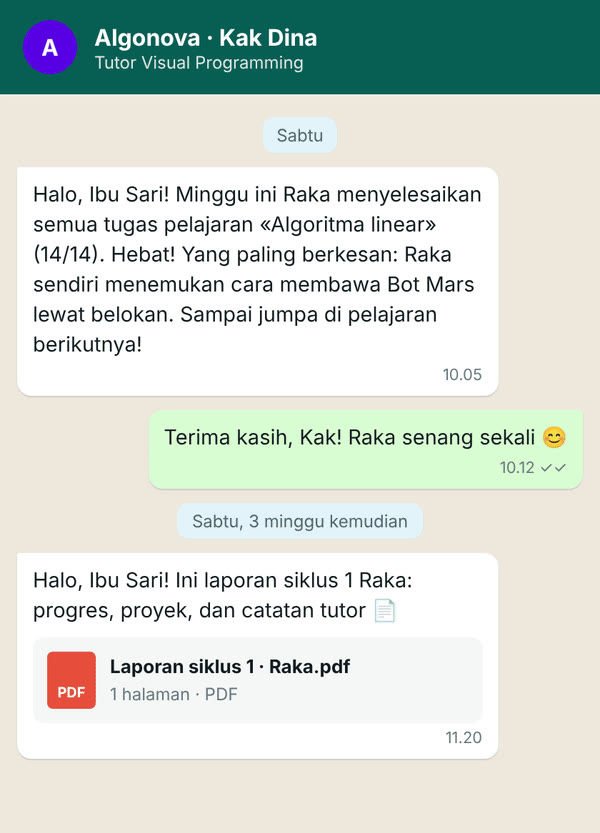
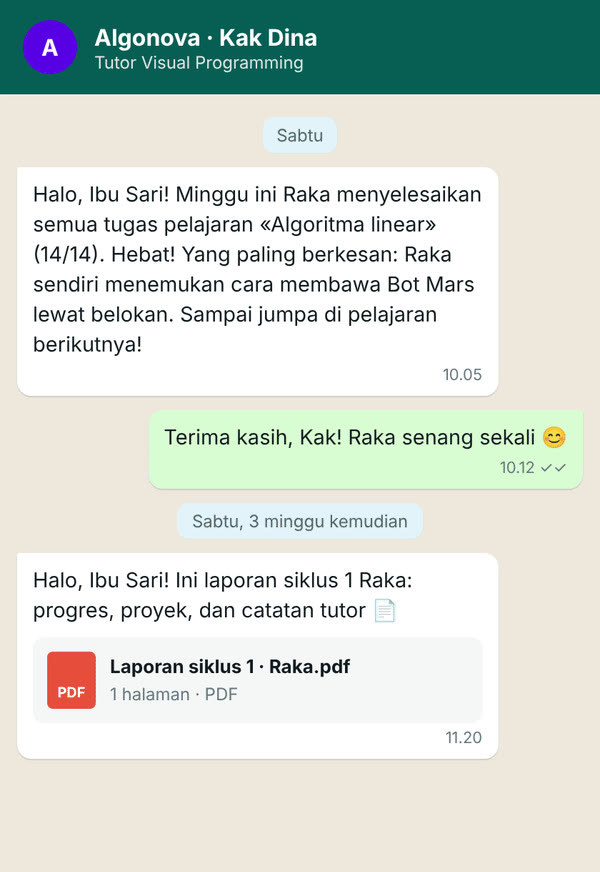
Reports: chat and PDF images same size, PDF margins cropped

Changed region(s): [[0.0, 0.0312, 1.0, 0.9364]]

diff --git a/en/index.html b/en/index.html
@@ -137,7 +137,7 @@ h3{font-size:20px;line-height:1.3;letter-spacing:-.01em;font-weight:700}
 .bg-canvas .rep-item{background:var(--card);box-shadow:var(--shadow-e2)}
 .rep-item p{color:var(--muted-foreground)}
 .rep-media{display:grid;grid-template-columns:repeat(2,minmax(0,1fr));gap:16px;align-items:start}
-.rep-media img{aspect-ratio:18/25;object-fit:cover;object-position:top}
+.rep-media img{aspect-ratio:600/872;object-fit:cover;object-position:top;width:100%}
 
 /* steps */
 .steps{display:grid;grid-template-columns:repeat(4,minmax(0,1fr));gap:16px}
@@ -392,8 +392,8 @@ h3{font-size:20px;line-height:1.3;letter-spacing:-.01em;font-weight:700}
 </div>
 </div>
 <div class="rep-media">
-<figure class="fig"><img src="../assets/media/whatsapp_chat.jpg" alt="Weekly message in WhatsApp" width="600" height="833" loading="lazy"><figcaption>Weekly message in WhatsApp</figcaption></figure>
-<figure class="fig"><a class="zoom" href="../assets/media/pdf_cycle_report.jpg" target="_blank" rel="noopener" aria-label="Example cycle report — Open full size"><img src="../assets/media/pdf_cycle_report.jpg" alt="Example cycle report" width="777" height="1100" loading="lazy"></a><figcaption>Example cycle report</figcaption></figure>
+<figure class="fig"><img src="../assets/media/whatsapp_chat.jpg" alt="Weekly message in WhatsApp" width="600" height="872" loading="lazy"><figcaption>Weekly message in WhatsApp</figcaption></figure>
+<figure class="fig"><a class="zoom" href="../assets/media/pdf_cycle_report.jpg" target="_blank" rel="noopener" aria-label="Example cycle report — Open full size"><img src="../assets/media/pdf_cycle_report.jpg" alt="Example cycle report" width="800" height="1162" loading="lazy"></a><figcaption>Example cycle report</figcaption></figure>
 </div>
 </div></section>
 <section id="compare" class="sec"><div class="wrap stack" style="gap:32px">

diff --git a/index.html b/index.html
@@ -137,7 +137,7 @@ h3{font-size:20px;line-height:1.3;letter-spacing:-.01em;font-weight:700}
 .bg-canvas .rep-item{background:var(--card);box-shadow:var(--shadow-e2)}
 .rep-item p{color:var(--muted-foreground)}
 .rep-media{display:grid;grid-template-columns:repeat(2,minmax(0,1fr));gap:16px;align-items:start}
-.rep-media img{aspect-ratio:18/25;object-fit:cover;object-position:top}
+.rep-media img{aspect-ratio:600/872;object-fit:cover;object-position:top;width:100%}
 
 /* steps */
 .steps{display:grid;grid-template-columns:repeat(4,minmax(0,1fr));gap:16px}
@@ -392,8 +392,8 @@ h3{font-size:20px;line-height:1.3;letter-spacing:-.01em;font-weight:700}
 </div>
 </div>
 <div class="rep-media">
-<figure class="fig"><img src="assets/media/whatsapp_chat.jpg" alt="Pesan mingguan di WhatsApp" width="600" height="833" loading="lazy"><figcaption>Pesan mingguan di WhatsApp</figcaption></figure>
-<figure class="fig"><a class="zoom" href="assets/media/pdf_cycle_report.jpg" target="_blank" rel="noopener" aria-label="Contoh laporan siklus — Buka ukuran penuh"><img src="assets/media/pdf_cycle_report.jpg" alt="Contoh laporan siklus" width="777" height="1100" loading="lazy"></a><figcaption>Contoh laporan siklus</figcaption></figure>
+<figure class="fig"><img src="assets/media/whatsapp_chat.jpg" alt="Pesan mingguan di WhatsApp" width="600" height="872" loading="lazy"><figcaption>Pesan mingguan di WhatsApp</figcaption></figure>
+<figure class="fig"><a class="zoom" href="assets/media/pdf_cycle_report.jpg" target="_blank" rel="noopener" aria-label="Contoh laporan siklus — Buka ukuran penuh"><img src="assets/media/pdf_cycle_report.jpg" alt="Contoh laporan siklus" width="800" height="1162" loading="lazy"></a><figcaption>Contoh laporan siklus</figcaption></figure>
 </div>
 </div></section>
 <section id="compare" class="sec"><div class="wrap stack" style="gap:32px">

diff --git a/en/meetings/index.html b/en/meetings/index.html
@@ -137,7 +137,7 @@ h3{font-size:20px;line-height:1.3;letter-spacing:-.01em;font-weight:700}
 .bg-canvas .rep-item{background:var(--card);box-shadow:var(--shadow-e2)}
 .rep-item p{color:var(--muted-foreground)}
 .rep-media{display:grid;grid-template-columns:repeat(2,minmax(0,1fr));gap:16px;align-items:start}
-.rep-media img{aspect-ratio:18/25;object-fit:cover;object-position:top}
+.rep-media img{aspect-ratio:600/872;object-fit:cover;object-position:top;width:100%}
 
 /* steps */
 .steps{display:grid;grid-template-columns:repeat(4,minmax(0,1fr));gap:16px}

diff --git a/meetings/index.html b/meetings/index.html
@@ -137,7 +137,7 @@ h3{font-size:20px;line-height:1.3;letter-spacing:-.01em;font-weight:700}
 .bg-canvas .rep-item{background:var(--card);box-shadow:var(--shadow-e2)}
 .rep-item p{color:var(--muted-foreground)}
 .rep-media{display:grid;grid-template-columns:repeat(2,minmax(0,1fr));gap:16px;align-items:start}
-.rep-media img{aspect-ratio:18/25;object-fit:cover;object-position:top}
+.rep-media img{aspect-ratio:600/872;object-fit:cover;object-position:top;width:100%}
 
 /* steps */
 .steps{display:grid;grid-template-columns:repeat(4,minmax(0,1fr));gap:16px}

diff --git a/_build/build_site.py b/_build/build_site.py
@@ -392,7 +392,7 @@ h3{font-size:20px;line-height:1.3;letter-spacing:-.01em;font-weight:700}
 .bg-canvas .rep-item{background:var(--card);box-shadow:var(--shadow-e2)}
 .rep-item p{color:var(--muted-foreground)}
 .rep-media{display:grid;grid-template-columns:repeat(2,minmax(0,1fr));gap:16px;align-items:start}
-.rep-media img{aspect-ratio:18/25;object-fit:cover;object-position:top}
+.rep-media img{aspect-ratio:600/872;object-fit:cover;object-position:top;width:100%}
 
 /* steps */
 .steps{display:grid;grid-template-columns:repeat(4,minmax(0,1fr));gap:16px}
@@ -766,8 +766,8 @@ def landing(lang):
 </div>
 </div>
 <div class="rep-media">
-<figure class="fig"><img src="{prefix}assets/media/whatsapp_chat.jpg" alt="{t("cap_wa")}" width="600" height="833" loading="lazy"><figcaption>{t("cap_wa")}</figcaption></figure>
-<figure class="fig"><a class="zoom" href="{prefix}assets/media/pdf_cycle_report.jpg" target="_blank" rel="noopener" aria-label="{t("cap_pdf")} — {t("open_full")}"><img src="{prefix}assets/media/pdf_cycle_report.jpg" alt="{t("cap_pdf")}" width="777" height="1100" loading="lazy"></a><figcaption>{t("cap_pdf")}</figcaption></figure>
+<figure class="fig"><img src="{prefix}assets/media/whatsapp_chat.jpg" alt="{t("cap_wa")}" width="600" height="872" loading="lazy"><figcaption>{t("cap_wa")}</figcaption></figure>
+<figure class="fig"><a class="zoom" href="{prefix}assets/media/pdf_cycle_report.jpg" target="_blank" rel="noopener" aria-label="{t("cap_pdf")} — {t("open_full")}"><img src="{prefix}assets/media/pdf_cycle_report.jpg" alt="{t("cap_pdf")}" width="800" height="1162" loading="lazy"></a><figcaption>{t("cap_pdf")}</figcaption></figure>
 </div>
 </div></section>
 """)
